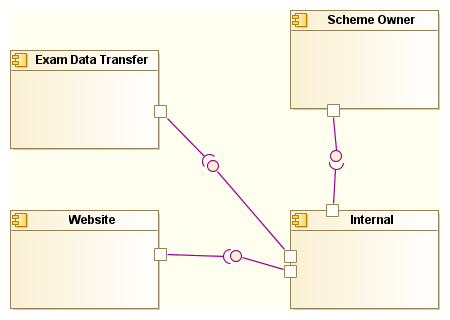
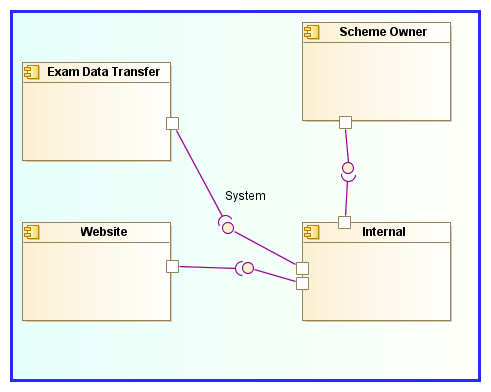
more process

Changed region(s): [[0.0, 0.0, 0.9956, 1.0], [0.1244, 0.6562, 0.28, 0.7188]]

diff --git a/thesis/chapters/processcreation.tex b/thesis/chapters/processcreation.tex
@@ -59,5 +59,17 @@ Die Auswahl und Bewertung der Komponentenarchitekturen in den vorherigen beiden 
 
 Da sich dieser Prozess jedoch ausschließlich auf die Planungs- und nicht die Implementationsphase bezieht, wurden die nicht funktionalen Anforderungen und Komponentenarchitekturen als Hauptkriterium für die Architekturerstellung verworfen.
 
+Stattdessen wurde der Fokus auf die Aufspaltung der Daten gelegt, welche bereits schon in den Systemvisionen der vorherigen Prozesse erkennbar war.
+
+Die Daten wurden anhand Ihrer Vertraulichkeit in unterschiedliche Komponenten aufgeteilt. Diese Komponent wurden dann durch Systeme mit einander verbunden, die den Zugriff auf die Daten regelten.
+
+\begin{figure}[!htbp]
+    \centering
+    \includegraphics[scale=0.7]{uml/vision3.png}
+    \caption{Aufteilung der Komponenten in Datenbereiche}
+\end{figure}
+
+Dieser Prozess erlaubte es, eine nachvollziehbare Architektur zu erstellen, jedoch war das Ergebnis zu grob. Außerdem schien eine separate Komponente zur  Übertragung der Prüfungsdaten zu fehlen, welche in der ursprünglichen Systemvision definiert und als wichtig empfunden worden war.
+
 \subsection{Von den Daten und den Akteuren zur Architektur}
 Vierter: Einbeziehen der Akteure
